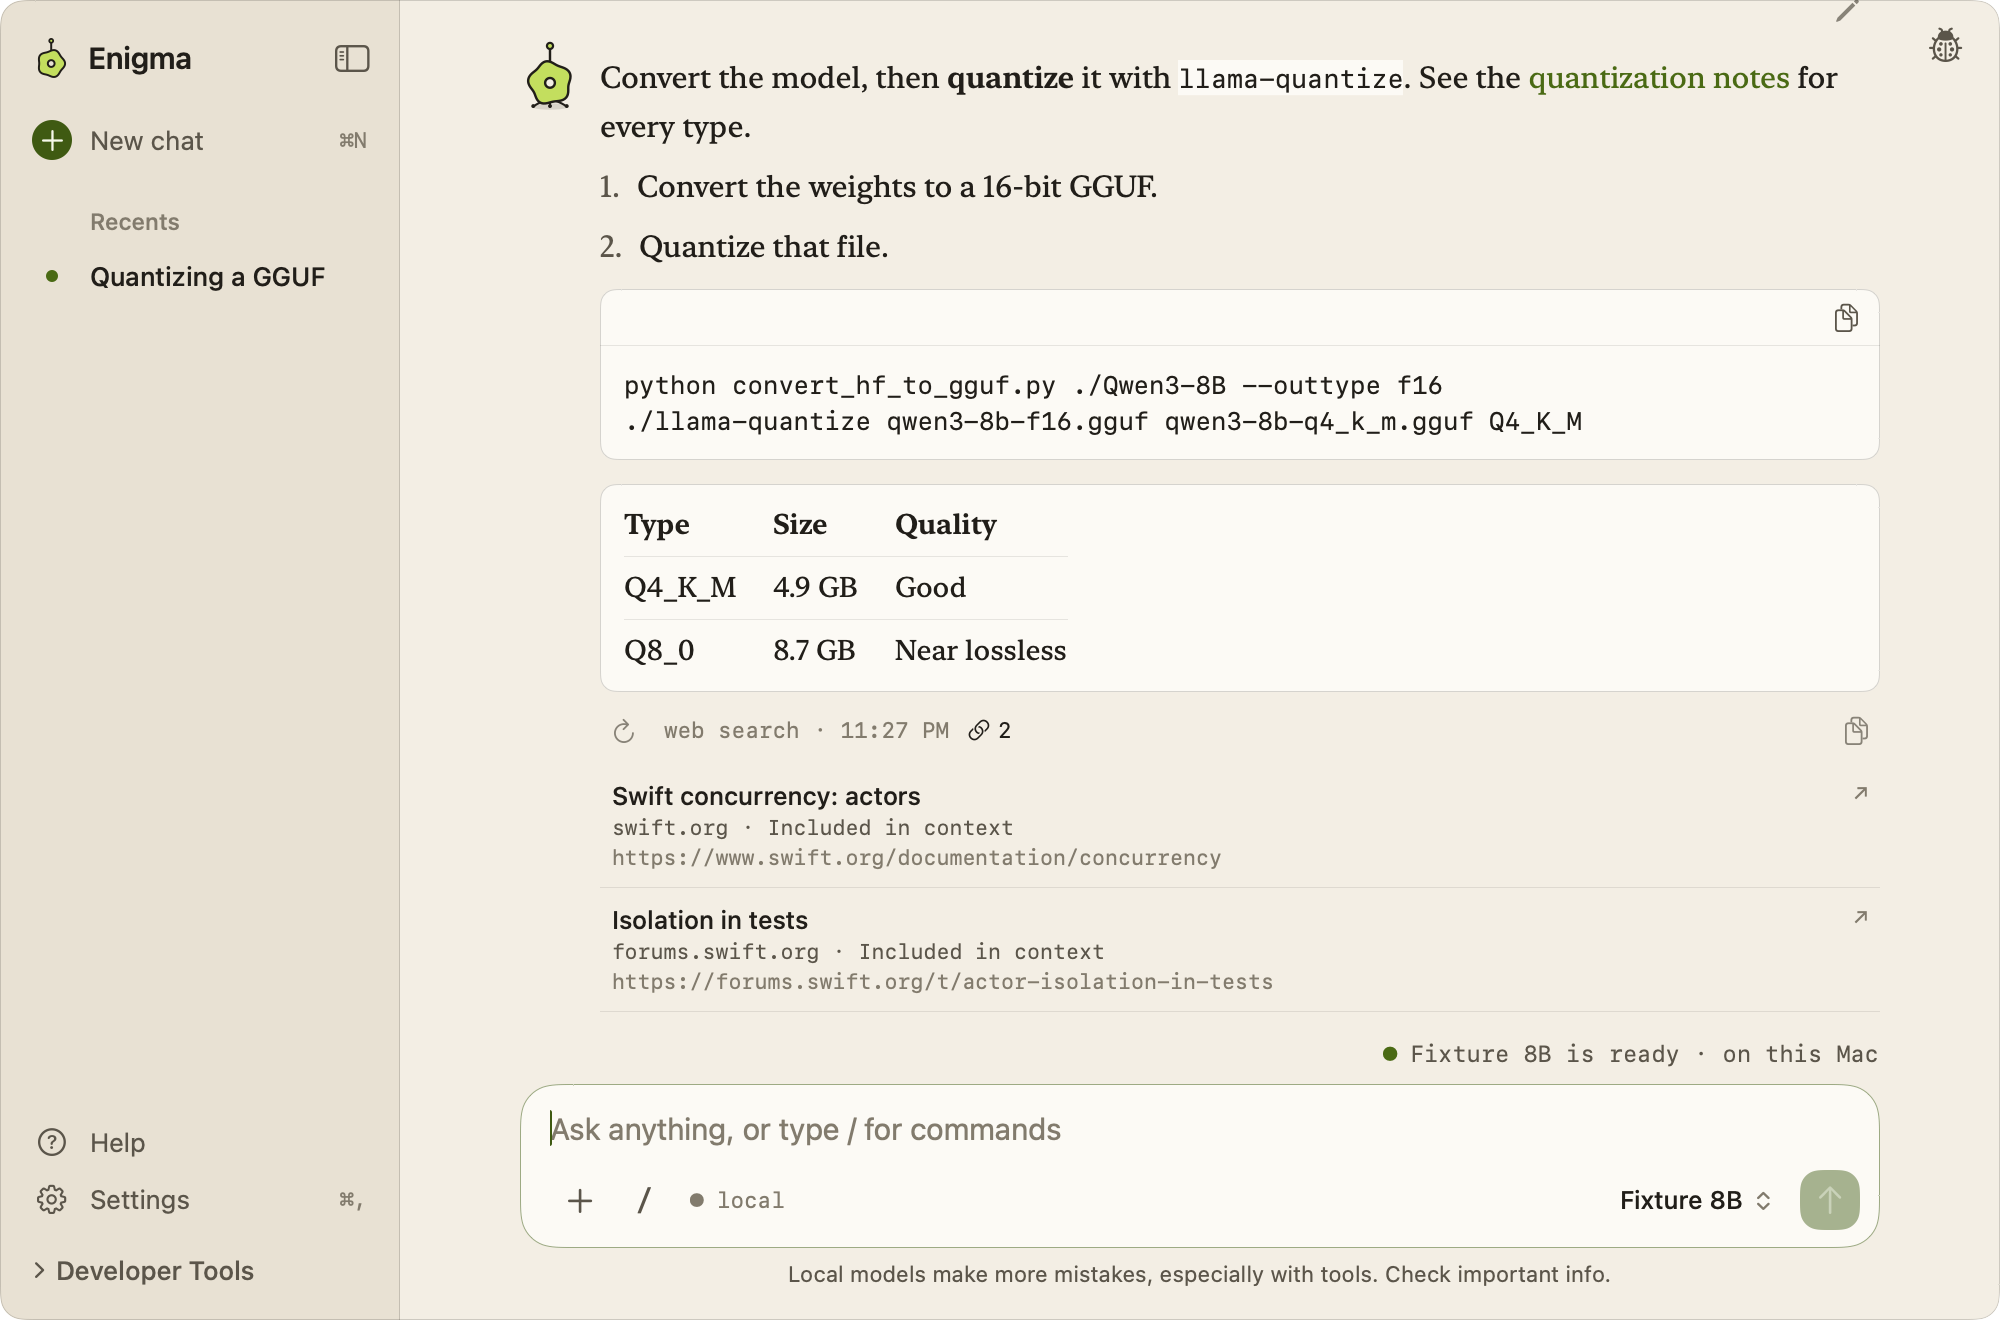
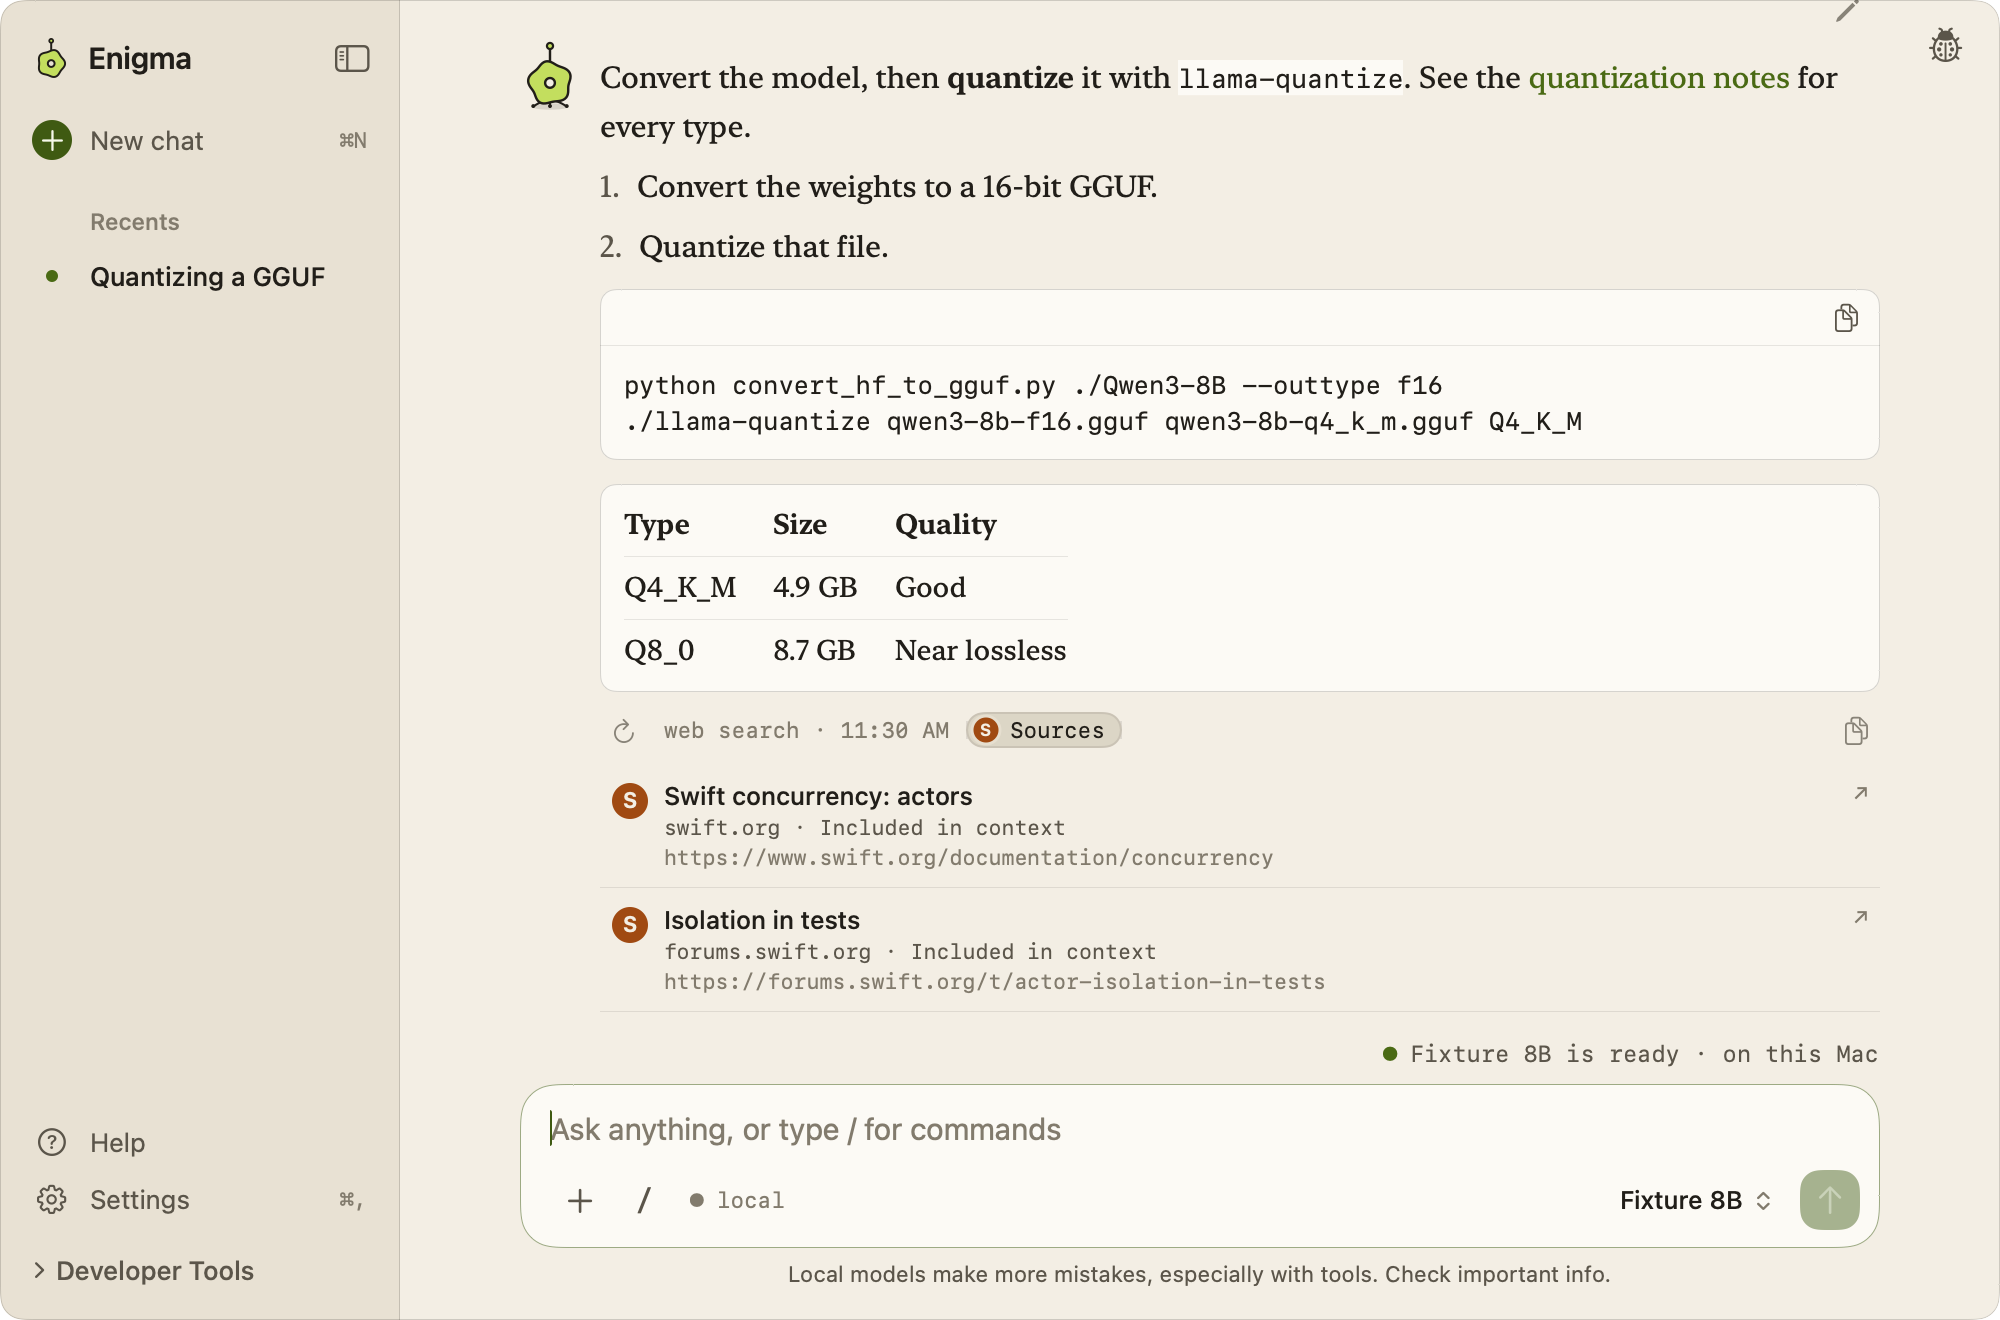
Sources as a bubble with each site's letter badge
The reply's sources open from a "Sources" capsule on its meta line, led
by up to three sites' letter badges (W for Wikipedia) on a theme colour
hashed from the site's name. Each open source row leads with its badge.

Changed region(s): [[0.31, 0.6833, 0.589, 0.7455], [0.31, 0.5902, 0.527, 0.6523], [0.465, 0.528, 0.558, 0.5902]]

diff --git a/Enigma/Chat/AssistantActivityView.swift b/Enigma/Chat/AssistantActivityView.swift
@@ -107,9 +107,11 @@ struct AssistantActivityView: View {
   }
 }
 
-/// A reply's web sources, collapsed: a small link glyph and count on its meta
-/// line that opens `ReplySourceList` under it.
+/// A reply's web sources, collapsed: a "Sources" bubble on its meta line, led by
+/// the first sites' letter badges, that opens `ReplySourceList` under it.
 struct ReplySourcesButton: View {
+  static let badgeCount = 3
+
   let activity: AssistantActivity
   @Binding var isExpanded: Bool
   @FocusState private var isFocused: Bool
@@ -118,22 +120,35 @@ struct ReplySourcesButton: View {
   @Environment(\.accessibilityReduceMotion) private var reduceMotion
 
   var body: some View {
+    let isLit = isHovered || isExpanded
     Button {
       withAnimation(reduceMotion ? nil : EnigmaMotion.pageChange.animation) { isExpanded.toggle() }
     } label: {
-      HStack(spacing: 3) {
-        Image(systemName: "link").font(EnigmaTypography.symbol(10))
-        Text("\(activity.sources.count)")
+      HStack(spacing: 5) {
+        HStack(spacing: -4) {
+          ForEach(SourceBadge.leading(activity.sources, count: Self.badgeCount)) { source in
+            SourceBadgeView(source: source, size: 14)
+              .overlay { Circle().stroke(palette.userBubble.color, lineWidth: 1.5) }
+          }
+        }
+        Text("Sources")
       }
       .font(EnigmaTypography.mono(11))
-      .foregroundStyle((isHovered || isExpanded ? palette.textPrimary : palette.textTertiary).color)
+      .foregroundStyle((isLit ? palette.textPrimary : palette.textSecondary).color)
+      .padding(.leading, 3)
+      .padding(.trailing, 8)
       .padding(.vertical, 2)
-      .contentShape(Rectangle())
+      .background {
+        Capsule().fill(palette.userBubble.color)
+        if isLit { Capsule().fill(palette.hover.color) }
+      }
+      .overlay { Capsule().strokeBorder(palette.hairline.color, lineWidth: 1) }
+      .contentShape(Capsule())
     }
     .buttonStyle(.plain)
     .focused($isFocused)
     .focusEffectDisabled()
-    .enigmaFocusRing(isFocused, palette: palette, cornerRadius: 4, outset: 3)
+    .enigmaFocusRing(isFocused, palette: palette, cornerRadius: 9, outset: 2)
     .onHover { isHovered = $0 }
     .help(activity.sourceSummary)
     .accessibilityLabel(activity.sourceSummary)
@@ -141,7 +156,63 @@ struct ReplySourcesButton: View {
     .accessibilityHint("Show or hide web sources")
     .enigmaTestMarker("Sources")
   }
+}
 
+/// A source's letter badge (owner, 2026-11-06): the site's initial, like W for
+/// Wikipedia, on a theme colour picked from the site's name, so a site keeps its
+/// colour from reply to reply.
+enum SourceBadge {
+  /// The site's own name from its host: "en.wikipedia.org" and "www.bbc.co.uk" give "wikipedia" and "bbc".
+  static func name(for source: WebSearchSource) -> String {
+    var labels = source.siteName.lowercased().split(separator: ".").map(String.init)
+    if labels.count > 1 { labels.removeLast() }
+    if labels.count > 1, let last = labels.last, ["co", "com", "org", "net", "gov", "ac", "edu"].contains(last) {
+      labels.removeLast()
+    }
+    return labels.last ?? source.siteName.lowercased()
+  }
+
+  static func letter(for source: WebSearchSource) -> String {
+    name(for: source).first { $0.isLetter || $0.isNumber }.map { String($0).uppercased() } ?? "?"
+  }
+
+  /// The badge colours: the theme's code colours and its red, each dark on Paper
+  /// and light on Ink, so `letterColor` reads on all of them.
+  static func colors(in palette: EnigmaPalette) -> [EnigmaColor] {
+    [palette.codeVariable, palette.codeString, palette.codeNumber, palette.codeKeyword, palette.codeType, palette.contextFull]
+  }
+
+  static func letterColor(in palette: EnigmaPalette) -> EnigmaColor { palette.background }
+
+  static func color(for source: WebSearchSource, in palette: EnigmaPalette) -> EnigmaColor {
+    // FNV-1a, since `hashValue` changes from launch to launch.
+    var hash: UInt32 = 2_166_136_261
+    for byte in name(for: source).utf8 { hash = (hash ^ UInt32(byte)) &* 16_777_619 }
+    let colors = colors(in: palette)
+    return colors[Int(hash % UInt32(colors.count))]
+  }
+
+  /// The first `count` sources from different sites, for the collapsed bubble.
+  static func leading(_ sources: [WebSearchSource], count: Int) -> [WebSearchSource] {
+    var seen = Set<String>()
+    return Array(sources.filter { seen.insert(name(for: $0)).inserted }.prefix(count))
+  }
+}
+
+/// A source's letter on its colour, in a circle.
+struct SourceBadgeView: View {
+  let source: WebSearchSource
+  let size: CGFloat
+  @Environment(\.enigmaPalette) private var palette
+
+  var body: some View {
+    Text(SourceBadge.letter(for: source))
+      .font(EnigmaTypography.ui(size * 0.6, weight: .semibold))
+      .foregroundStyle(SourceBadge.letterColor(in: palette).color)
+      .frame(width: size, height: size)
+      .background { Circle().fill(SourceBadge.color(for: source, in: palette).color) }
+      .accessibilityHidden(true)
+  }
 }
 
 /// A reply's open web sources, as the rows the activity panel used to show.
@@ -226,6 +297,7 @@ private struct ActivitySourceRow: View {
     let line = blockedDomain == nil ? source.siteName + " · " + detail : source.siteName + " · blocked"
     return Link(destination: source.url) {
       HStack(alignment: .top, spacing: 8) {
+        SourceBadgeView(source: source, size: 18).padding(.top, 1)
         VStack(alignment: .leading, spacing: 2) {
           Text(source.title.isEmpty ? source.siteName : source.title)
             .font(EnigmaTypography.ui(12.5, weight: .medium))

diff --git a/EnigmaTests/EnigmaThemeTests.swift b/EnigmaTests/EnigmaThemeTests.swift
@@ -177,3 +177,37 @@ final class ContextRingTests: XCTestCase {
                    "92 of 100 tokens used\n8% of context left. Earlier messages will be summarized.")
   }
 }
+
+final class SourceBadgeTests: XCTestCase {
+  private let palettes: [(String, EnigmaPalette)] = [("Paper", .paper), ("Ink", .ink)]
+
+  private func source(_ address: String) -> WebSearchSource {
+    WebSearchSource(title: "", url: URL(string: address)!)
+  }
+
+  func testSourceBadgesTakeTheSitesInitial() {
+    XCTAssertEqual(SourceBadge.letter(for: source("https://en.wikipedia.org/wiki/Willis_Tower")), "W")
+    XCTAssertEqual(SourceBadge.letter(for: source("https://www.bbc.co.uk/news")), "B")
+    XCTAssertEqual(SourceBadge.letter(for: source("https://maps.apple.com/?q=cafe")), "A")
+    XCTAssertEqual(SourceBadge.letter(for: source("https://localhost/page")), "L")
+  }
+
+  func testSourceBadgesKeepASitesColourAndShowDistinctSites() {
+    let wiki = source("https://en.wikipedia.org/a"), otherWiki = source("https://de.wikipedia.org/b")
+    for (name, palette) in palettes {
+      XCTAssertEqual(SourceBadge.color(for: wiki, in: palette), SourceBadge.color(for: otherWiki, in: palette), name)
+      XCTAssertTrue(SourceBadge.colors(in: palette).contains(SourceBadge.color(for: wiki, in: palette)), name)
+    }
+    let leading = SourceBadge.leading(
+      [wiki, otherWiki, source("https://bbc.co.uk"), source("https://nasa.gov"), source("https://apple.com")], count: 3)
+    XCTAssertEqual(leading.map(SourceBadge.letter(for:)), ["W", "B", "N"])
+  }
+
+  func testSourceBadgeLettersReadOnEveryBadgeColour() {
+    for (name, palette) in palettes {
+      for colour in SourceBadge.colors(in: palette) {
+        XCTAssertGreaterThanOrEqual(SourceBadge.letterColor(in: palette).contrastRatio(on: colour), 4.5, "\(name) \(colour)")
+      }
+    }
+  }
+}

diff --git a/docs/Web-Search.md b/docs/Web-Search.md
@@ -336,9 +336,10 @@ While a search runs, the reply's activity line moves through **Preparing search
 query…** (only when the query is written from attached text, below),
 **Searching…**, **Reading sources…**, **Finding places…** and **Checking the
 weather…**. When the answer is done, the line reads **Activity · N sources**.
-Once the reply finishes, its sources sit under it, collapsed: a link icon and a count
-(for example **3**) on its meta line, labelled "3 sources, collapsed" for VoiceOver.
-Click it to open the list, each source with its title, site, URL and **Included
+Once the reply finishes, its sources sit under it, collapsed: a **Sources** bubble
+on its meta line, led by up to three sites' letter badges (the site's initial on a
+colour that site keeps), labelled "3 sources, collapsed" for VoiceOver.
+Click it to open the list, each source with its badge, title, site, URL and **Included
 in context**. Clicking a source opens it in your browser. The line under the reply
 includes **web search**, or **brave search** when Brave answered (**web search**
 once Enigma has restarted).

diff --git a/docs/design/UI-Style.md b/docs/design/UI-Style.md
@@ -127,8 +127,13 @@ glyph is Stop, on the solid Send button.
   terminal glyph. Earlier
   replies keep the outline mark where the character stood. Request activity
   is a monospace line that opens to show the steps. A searched reply's meta
-  line ends with a link glyph and its source count, which opens the sources
-  under it. Queued
+  line ends with a `userBubble` capsule (hairline edge, `hover` on hover or
+  while open) reading "Sources" in monospace, led by up to three distinct sites'
+  14 pt letter badges overlapping by 4 pt, which opens the sources under it.
+  A badge is the site's initial in semibold `background` on a colour hashed
+  from the site's name: `codeVariable`, `codeString`, `codeNumber`,
+  `codeKeyword`, `codeType` or `contextFull`. Each open source row leads with
+  an 18 pt badge. Queued
   messages wait under the reply as unfilled bubbles with a dashed `border`
   outline (1 pt, 4 on 3 off, `EnigmaEdgeStroke(isDashed:)`), an x icon button
   to their left and a monospace "Send now" text button with a clock under

diff --git a/docs/Chat.md b/docs/Chat.md
@@ -258,8 +258,9 @@ turn. See
 [Web search](Web-Search.md#cloud-models-own-search).
 
 Click it to see the steps. A searched reply's web sources sit under it,
-collapsed: a link icon and a count (for example **3**) on its meta line, which VoiceOver
-reads as "3 sources, collapsed". Click it to open the list: each row shows the page title, the site, whether its excerpt was **Included in
+collapsed: a **Sources** bubble on its meta line, led by the first sites' letter
+badges (each site's initial, like **W** for Wikipedia, on a colour that site keeps),
+which VoiceOver reads as "3 sources, collapsed". Click it to open the list: each row shows the page title, the site, whether its excerpt was **Included in
 context**, and the address, and opens the page in your browser. The list scrolls
 when it's long. Only excerpts that fit in the model's context are listed; a
 listed source means its excerpt was sent, not that the full page was read.
